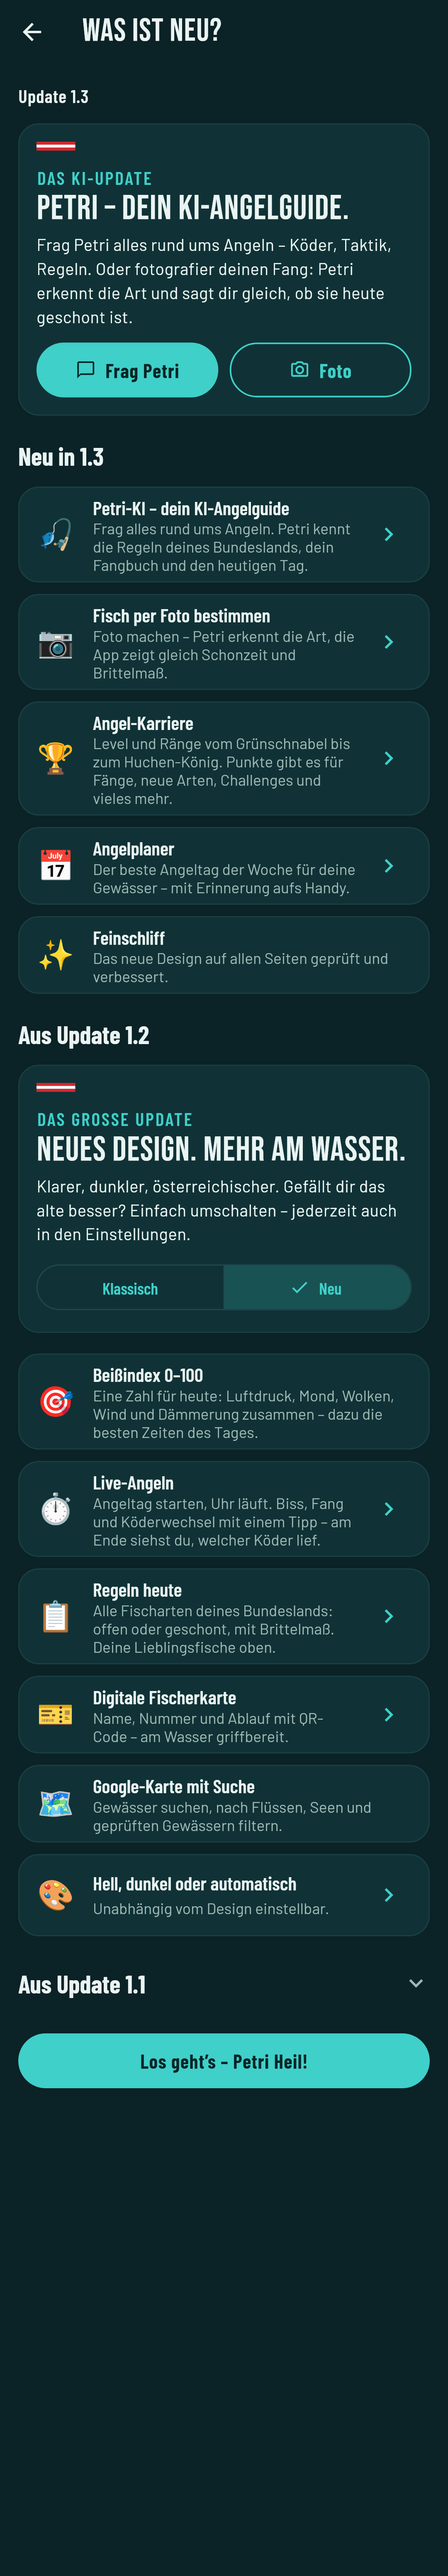
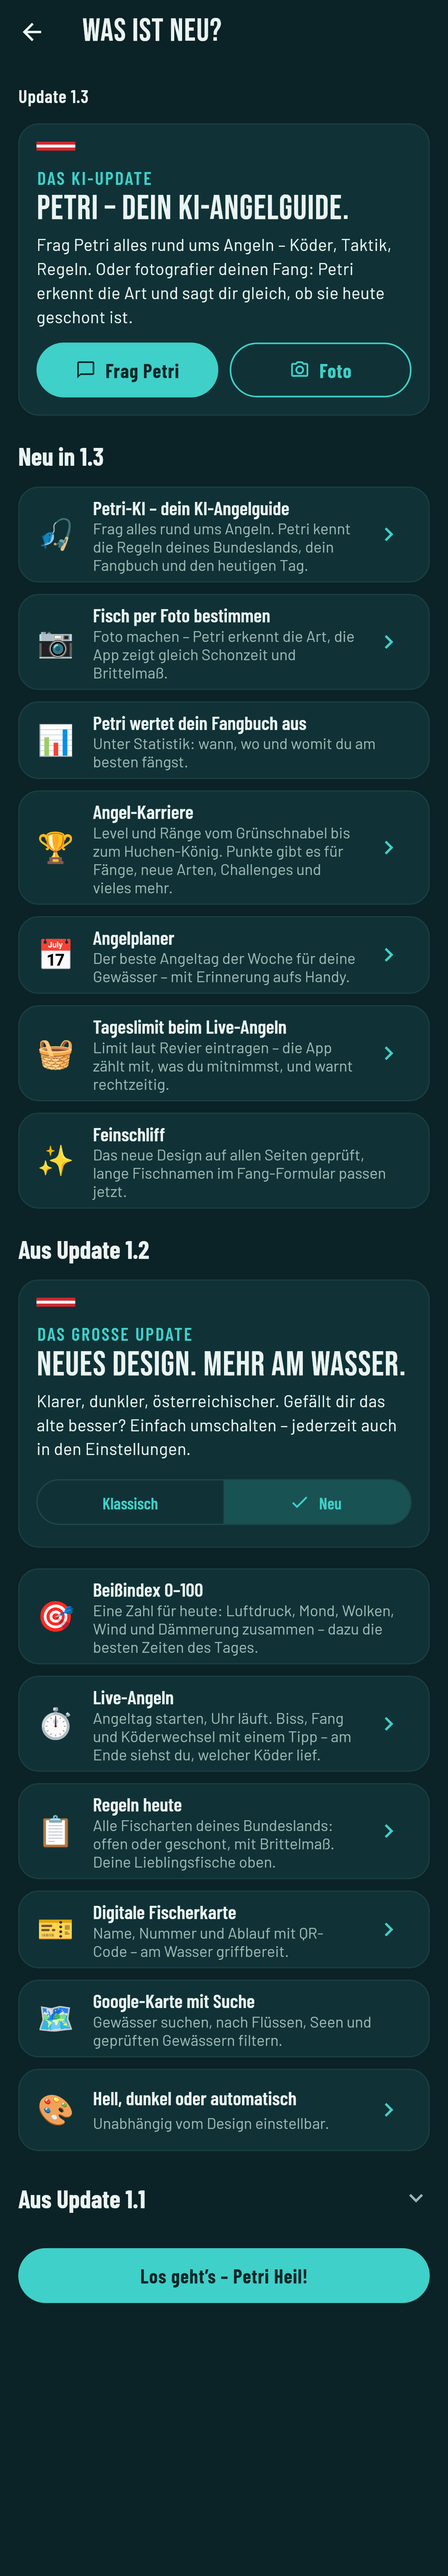
Was ist neu 1.3: Tageslimit und Fangbuch-Auswertung [skip ci]
Claude-Session: https://claude.ai/code/session_01JSqKKxvkfQShscKWMRN2jr

Changed region(s): [[0.0306, 0.2802, 0.9778, 0.9027], [0.7028, 0.6848, 0.7333, 0.716]]

diff --git a/apps/austro_angler/lib/screens/neu_screen.dart b/apps/austro_angler/lib/screens/neu_screen.dart
@@ -60,6 +60,8 @@ class NeuScreen extends StatelessWidget {
                 'Foto machen – Petri erkennt die Art, die App zeigt gleich '
                 'Schonzeit und Brittelmaß.',
                 () => _oeffnen(context, const PetriFotoScreen())),
+            _Punkt('📊', 'Petri wertet dein Fangbuch aus',
+                'Unter Statistik: wann, wo und womit du am besten fängst.'),
           ],
           _Punkt('🏆', 'Angel-Karriere',
               'Level und Ränge vom Grünschnabel bis zum Huchen-König. Punkte '
@@ -69,8 +71,13 @@ class NeuScreen extends StatelessWidget {
               'Der beste Angeltag der Woche für deine Gewässer – mit '
               'Erinnerung aufs Handy.',
               () => _oeffnen(context, const AngelplanerScreen())),
+          _Punkt('🧺', 'Tageslimit beim Live-Angeln',
+              'Limit laut Revier eintragen – die App zählt mit, was du '
+              'mitnimmst, und warnt rechtzeitig.',
+              () => _oeffnen(context, const LiveAngelnScreen())),
           _Punkt('✨', 'Feinschliff',
-              'Das neue Design auf allen Seiten geprüft und verbessert.'),
+              'Das neue Design auf allen Seiten geprüft, lange Fischnamen im '
+              'Fang-Formular passen jetzt.'),
           const SizedBox(height: 16),
           Text('Aus Update 1.2', style: text.titleLarge),
           const SizedBox(height: 8),
